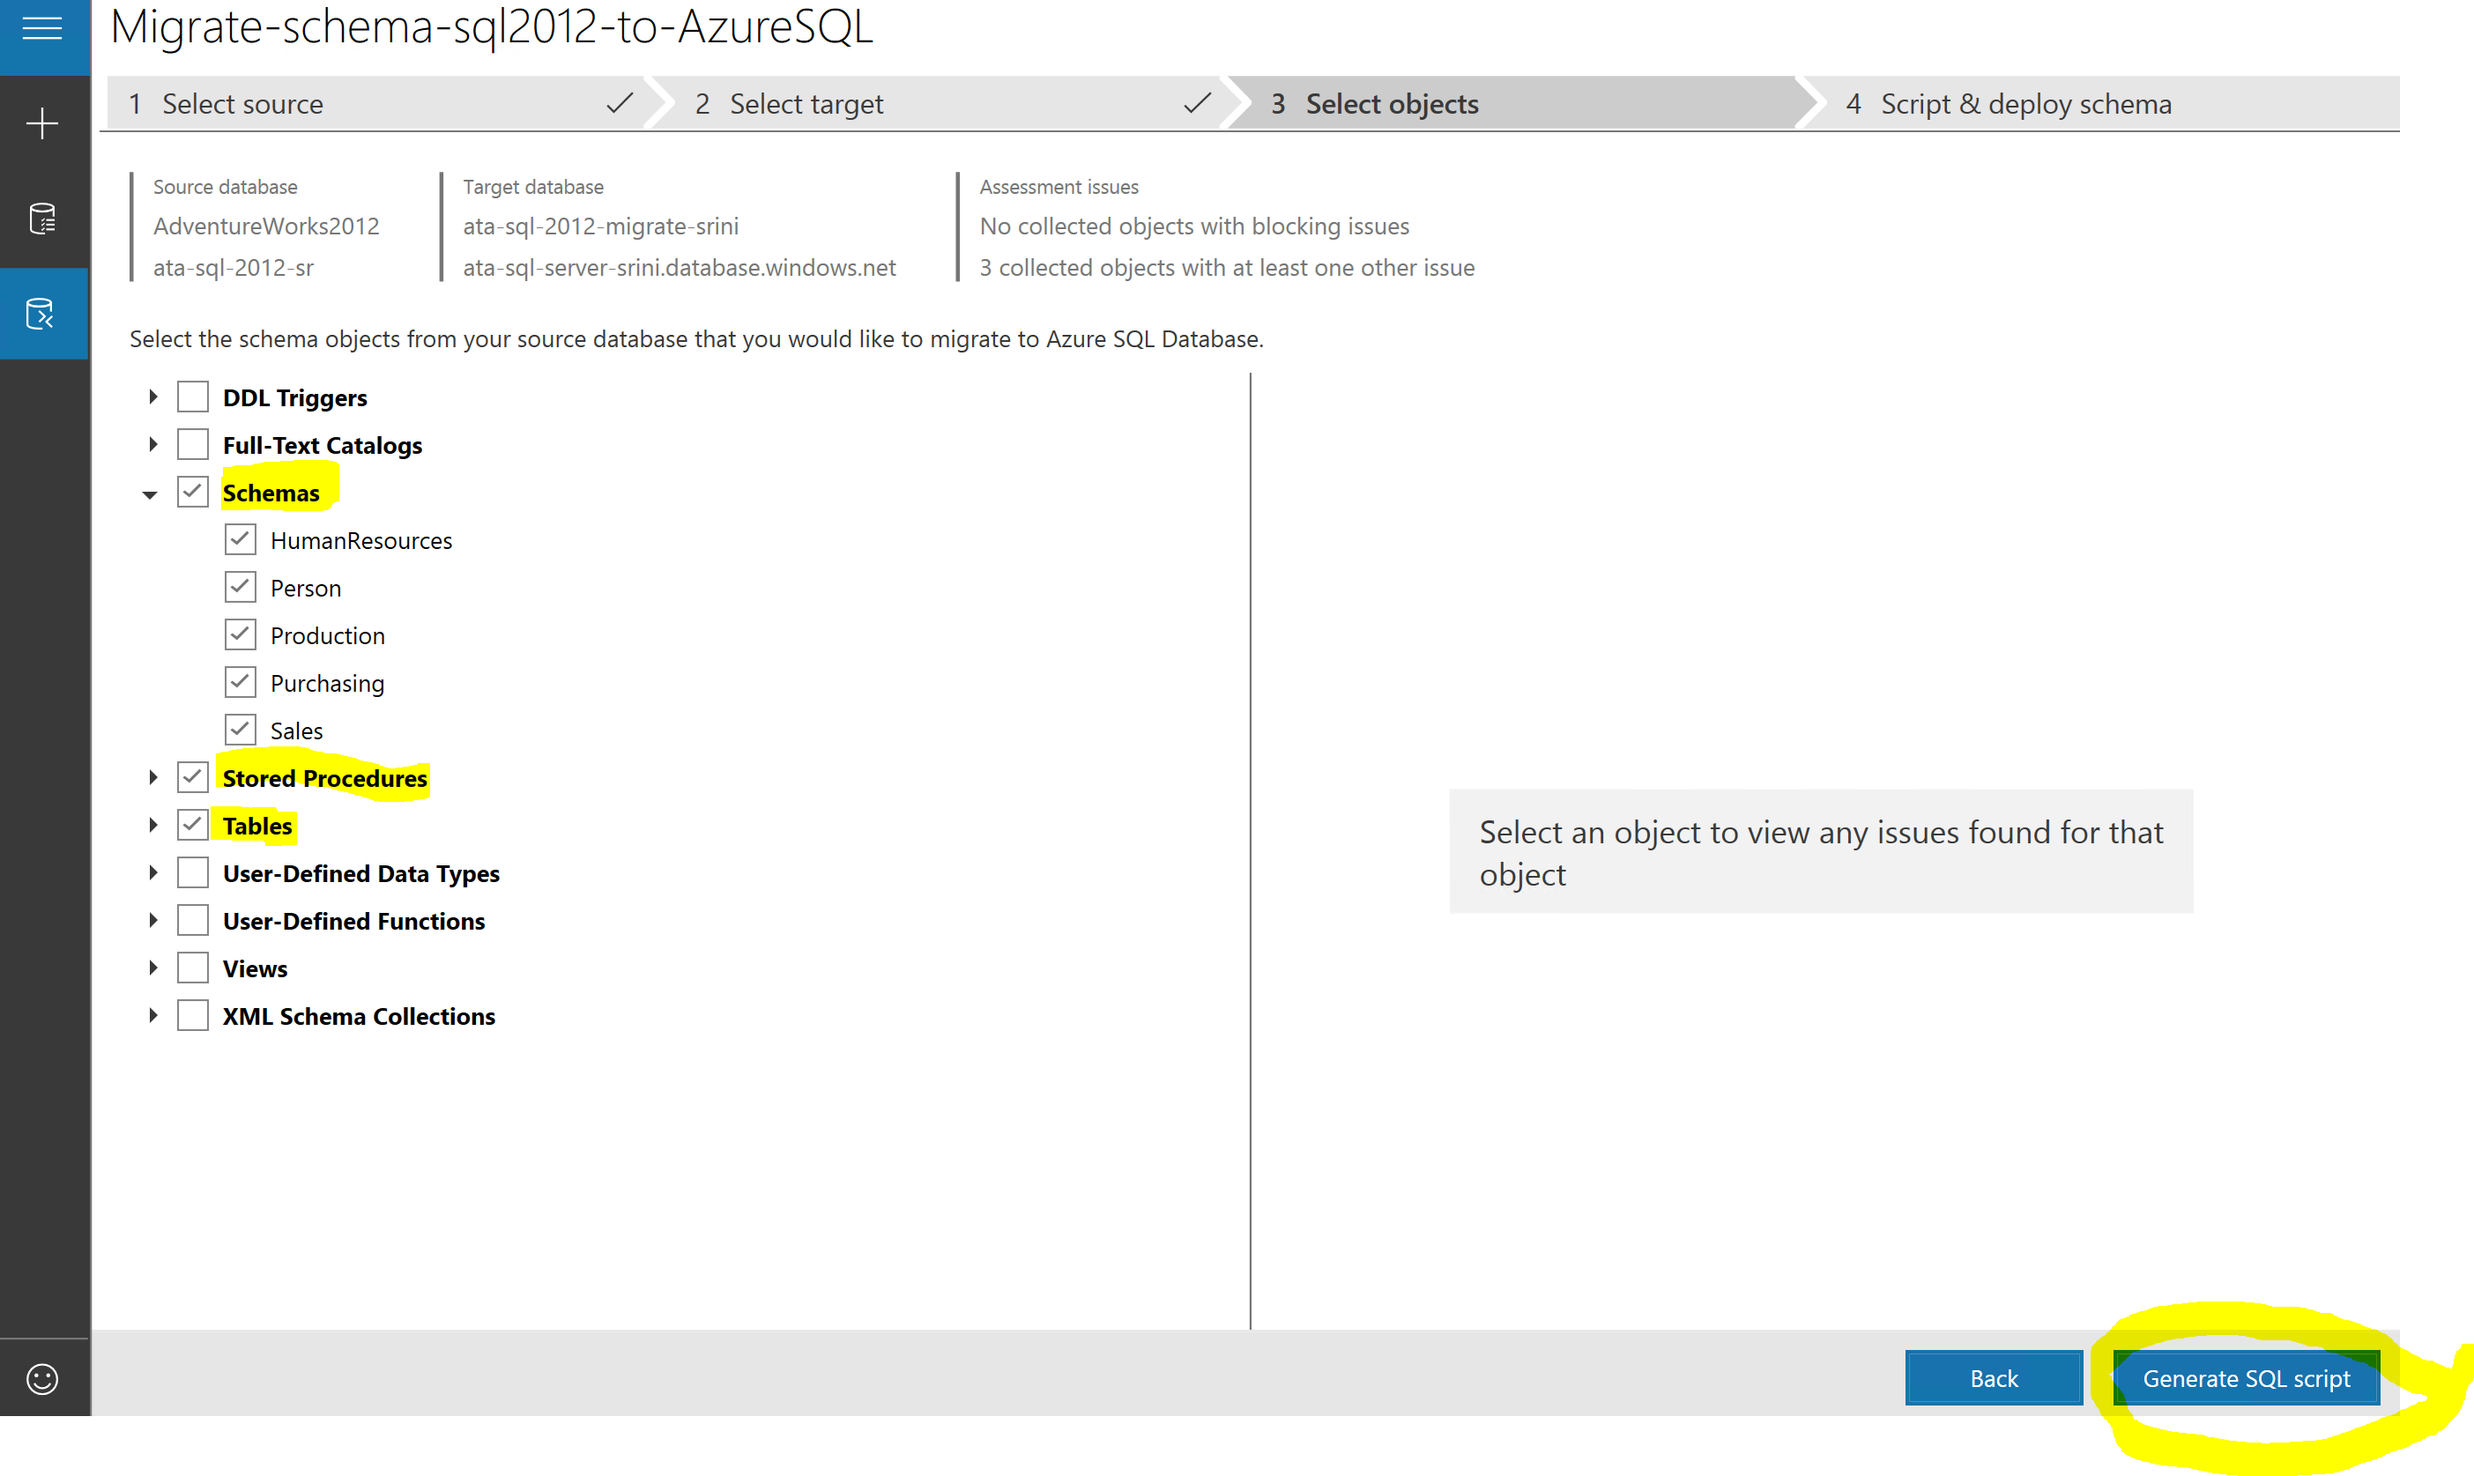
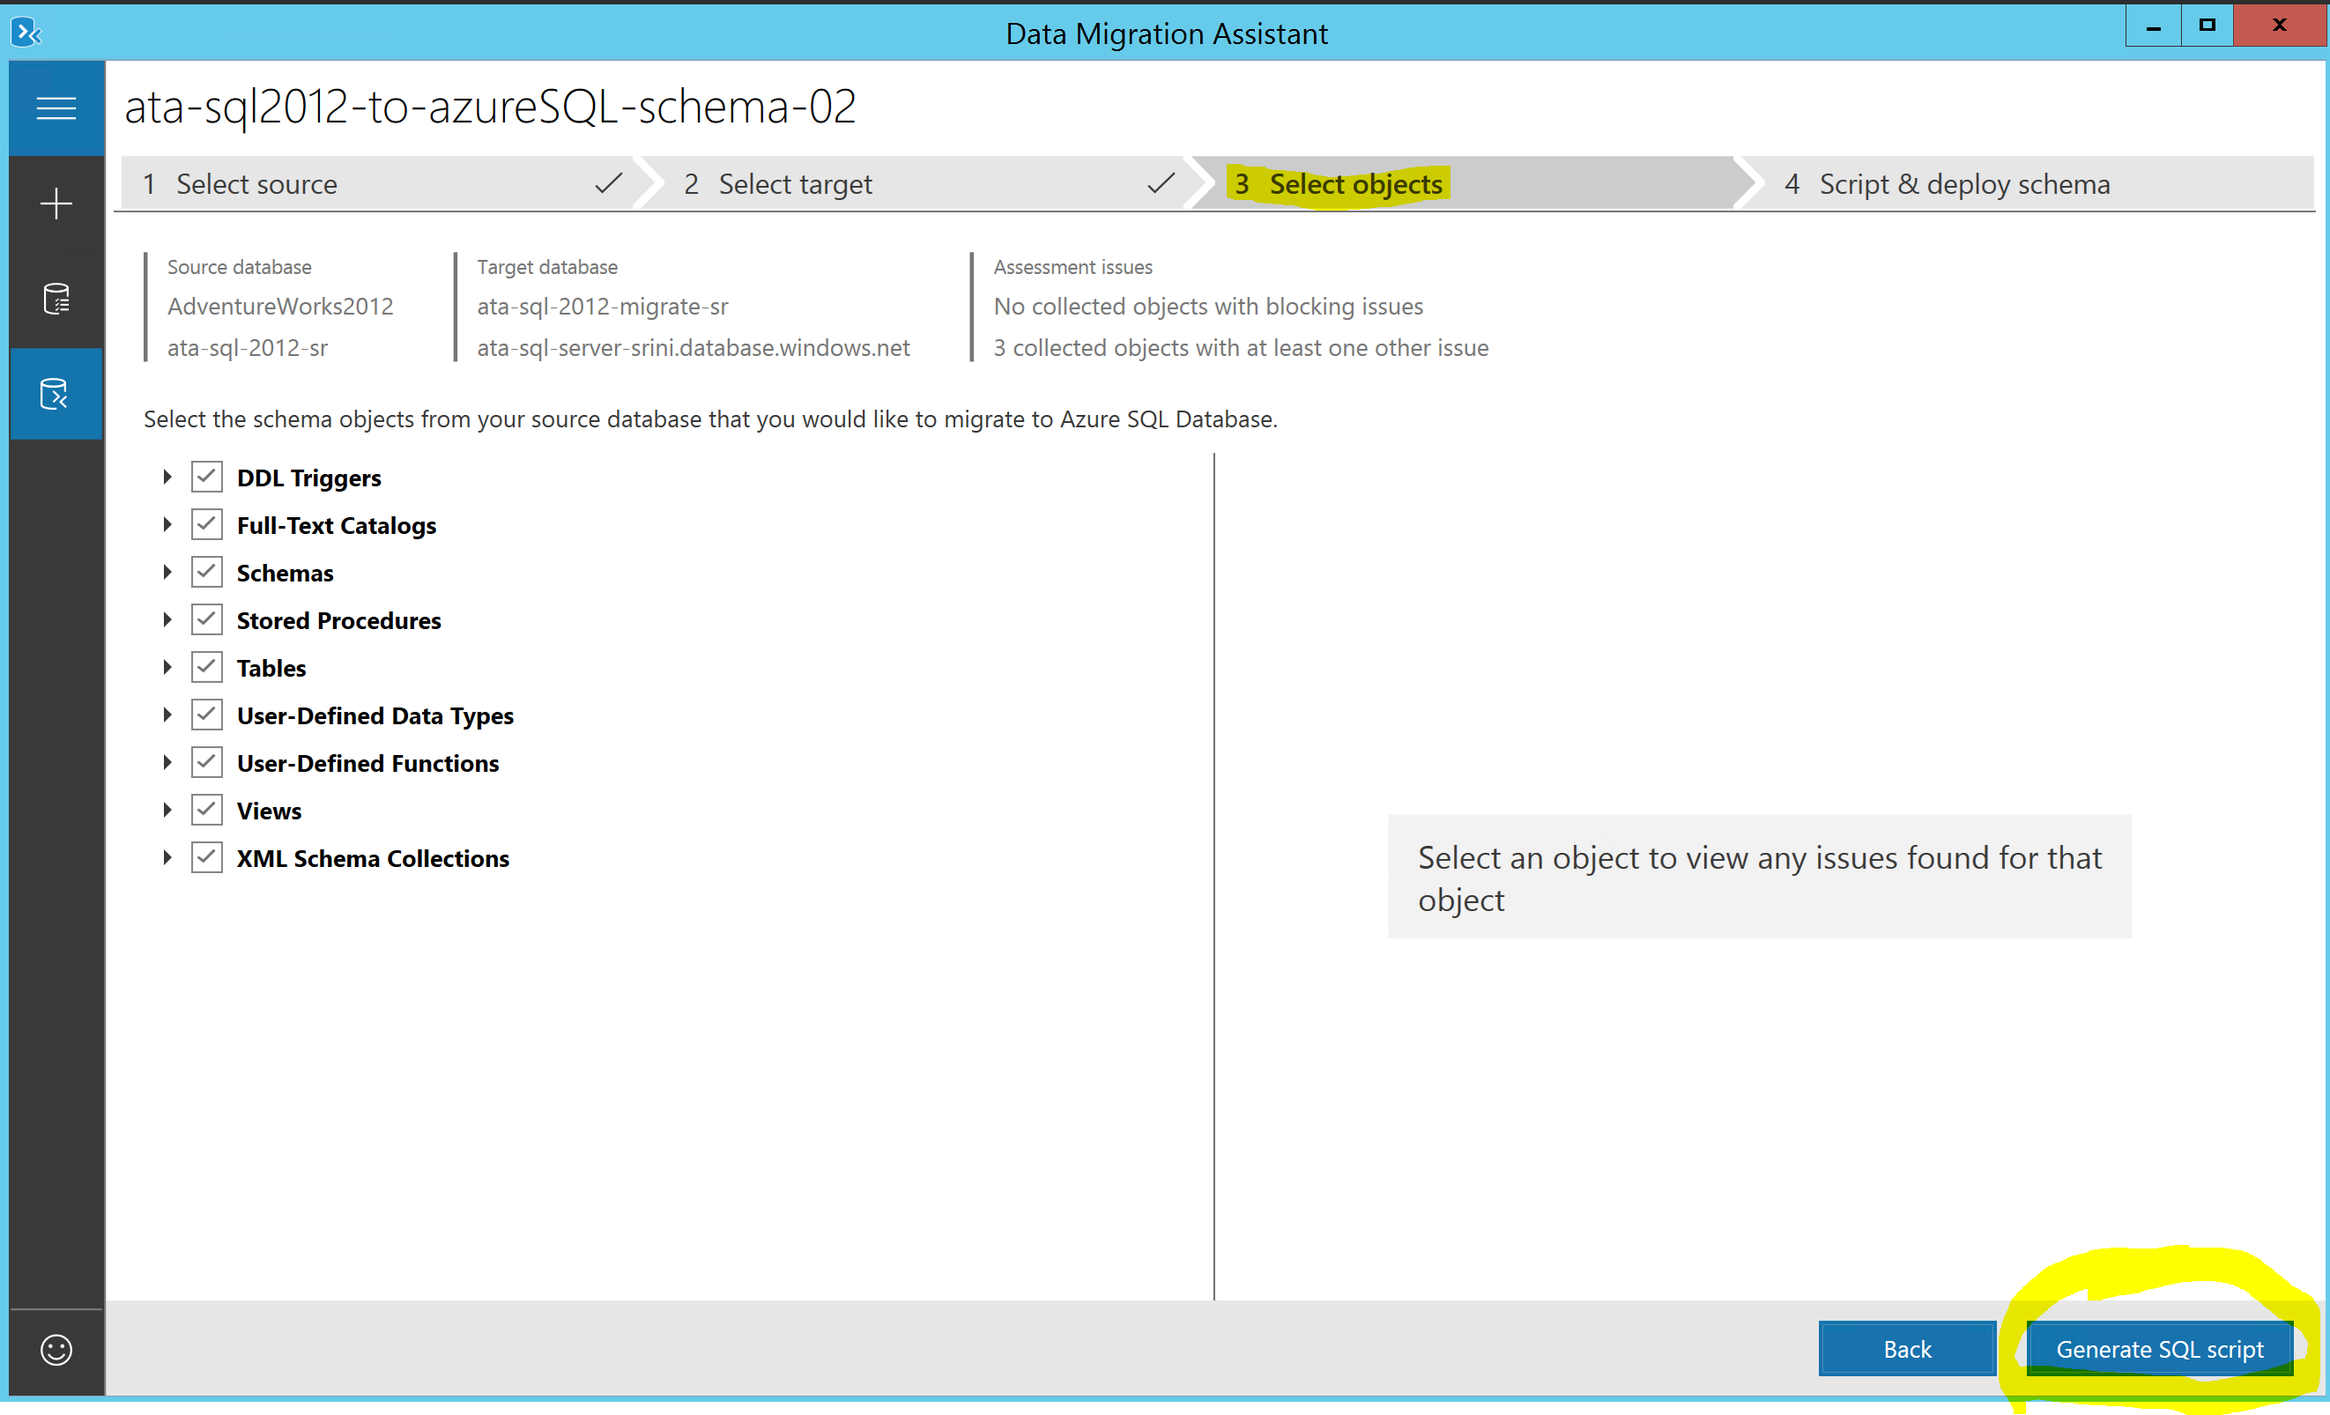
dito

Changed region(s): [[0.0, 0.0, 1.0, 1.0], [0.5893, 0.5604, 0.8994, 0.6538]]

diff --git a/month1/labs/lab_SQL/README.md b/month1/labs/lab_SQL/README.md
@@ -58,8 +58,8 @@ This hands-on lab will provide an experience to restore an on-premises database 
 
 <img src="./images/SQL-VM-Configuration-full.PNG" alt="SQL VM configuration setup" Width="600">
 
-- Make sure you have green check for the **validation passed** and Click on **Create** button.
-- Wait till your deployment is complete and see 'Go To Resource' button.
+- Make sure you have a green check for the **validation passed** and Click on **Create** button.
+- Wait till your deployment is complete and you should see 'Go To Resource' button.
 
 ### Task-2: Restore a sample database AdventureWorks from a backup
 
@@ -75,46 +75,49 @@ This hands-on lab will provide an experience to restore an on-premises database 
 - Select 'Use a different account'
 - Enter user name as 'azureuser'
 - Enter the password ('Atasql2012user')
-2. Modify Internet Security to download the software
-- Open 'Server Manager' if not open
-- Select 'Local Server' 
-- Find 'IE Enhanced Security Configuration' and Turn 'Off' 
-- It is not recommended but to avoid internet issues. Please turn On after the download.
+
+<img src="./images/SQL-VM-RDP-Connect-ok.PNG" alt="Login with different account" Height="300">
+
+2. Modify Internet Security to download software.
+- Open 'Server Manager' if not open.
+- Select 'Local Server'.
+- Find 'IE Enhanced Security Configuration' and Turn 'Off'.
+- It is not recommended but to avoid internet issues in the lab. Please turn 'On' after the download.
 
 <img src="./images/SQL-VM-turn-off-IE.PNG" alt="Turn off IE browser Security" Width="800">
 
 3. Download the AdventureWorks, a sample database for SQL 2012.
-- Open Internet Explorer browser and access [SQL 2012 Backup](https://github.com/Microsoft/sql-server-samples/releases/tag/adventureworks)
-- Select 'AdventureWorks2012.bak' under "AdventureWorks (OLTP) full database backups" section 
+- Open Internet Explorer browser and access the [SQL 2012 Backup](https://github.com/Microsoft/sql-server-samples/releases/tag/adventureworks) location.
+- Select 'AdventureWorks2012.bak' under "AdventureWorks (OLTP) full database backups" section.
 
 <img src="./images/SQL-2012-Backup-download.PNG" alt="SQL 2012 Database backup" Width="600">
 
-- Save the backup file to local 'c:\Data' folder (Create a new folder)
+- Save the backup file to local 'c:\Data' folder (Create a new folder).
 
 4. Open SQL Server Management Studio and restore the database.
-- Search for 'SQL Server Management Studio' on the desktop
-- Connect to SQL Server with 'sqladmin' login
-- Select 'database' folder and right click to select 'Restore database' option
+- Search for 'SQL Server Management Studio' on the desktop.
+- Connect to SQL Server with 'sqladmin' login.
+- Select 'database' folder and right click to select 'Restore database' option.
 
 <img src="./images/SQL-VM-SQL-Select-Restore.PNG" alt="select Restore database option" Width="300">
 
 - Select 'Device', '...', 'File', 'C:\data Folder' and 'AdventureWorks2012.bak' file.
 
-<img src="./images/SQL-DB-Restore-Backup.PNG" alt="select backup file" Width=700">
+<img src="./images/SQL-DB-Restore-Backup.PNG" alt="select backup file" Width="700">
 
-- Click 'OK' three times to start the backup process
+- Click 'OK' three times to start the backup process.
 
 <img src="./images/SQL-DB-Restore-backup-Done.PNG" alt="backup restore done" Width="600">
 
-- Expand 'Database'|'AdventureWorks2012'|'Tables'|'HumanResources.employee' table |'Select Top 1000 Rows'
+- Expand 'Database'|'AdventureWorks2012'|'Tables'|'HumanResources.employee' table |'Select Top 1000 Rows'.
 
 <img src="./images/SQL-DB-Select-table-rows.PNG" alt="Select 1000 rows from Employee table" Width="600">
 
-- Execute the query
+- Execute the query.
 - You have restored the database successfully!
 
 ## Lab-2: Migrate SQL 2012 Database to Azure SQL PaaS Database
-This hands-on lab will provide an experience migrate 2012 SQL database to Azure PaaS SQL database using Data Migration Assistant. You can use the same lab to migrate other versions of the Microsoft SQL database also.
+This hands-on lab will provide an experience to migrate 2012 SQL database to Azure PaaS SQL database using Data Migration Assistant. You can use the same lab to migrate other versions of the Microsoft SQL database also.
 
 You should have a copy of the database backup to complete this exercise. Please follow lab-1 if you don't have one.
 ### Tasks:
@@ -127,8 +130,8 @@ You should have a copy of the database backup to complete this exercise. Please 
 
 1. Open Portal to create SQL PaaS Database.
 
-- Select Database service from the search bar
-- Select 'Add' to create a new database
+- Type 'SQL Databases' on the search bar to select the service.
+- Select 'Add' to create a new database.
 - Select Resource Group
 - Enter Database name: 'ata-sql-2012-migrate-<name>'
 - Server: Click on 'Create new'
@@ -151,10 +154,10 @@ You should have a copy of the database backup to complete this exercise. Please 
 
 ### Task-4: Install Data Migration Assistant
 
-- Now let us evaluate the SQL 2012 database to migrate to Azure SQL.
-- Data Migration Assistant is available to assess the migration 
-- This tool will provide a report about any feature parity and compatibility issues between the on-premises database and the Azure SQL DB service.
-1. Access SQL 2012 VM and Download [Microsoft Data Migration Assistant](https://www.microsoft.com/en-us/download/details.aspx?id=53595)
+- We need to evaluate if we can migrate SQL 2012 database to Azure SQL.
+- Data Migration Assistant is available to assess the migration.This tool will provide a report about any feature parity and compatibility issues between the on-premises database and the Azure SQL DB service.
+
+1. Open up your SQL 2012 VM and Open a browser to download 'Microsoft Data Migration Assistant' using [this link](https://www.microsoft.com/en-us/download/details.aspx?id=53595).
 - Run the install with the default options.
 
 <img src="./images/SQL-VM-DMA-Install.PNG" alt="Download DMA install" Width="700">
@@ -185,10 +188,10 @@ You should have a copy of the database backup to complete this exercise. Please 
 - **Encrypt connection**: Uncheck this box.
 - **Trust server certificate**: Uncheck this box.
 
-<img src="./images/DMA-SQL-source-Info.PNG", alt="Source database access info" Width="300">
+<img src="./images/DMA-SQL-source-Info.PNG" alt="Source database access info" Width="300">
 
 - Select Connect
-6. On the Add sources dialog that appears next, check the box for 'AdventureWorks12' and select Add.
+6. Next you will see 'Add sources' dialog screen, check the box for 'AdventureWorks12' and select Add.
 
 <img src="./images/DMA-Select-Data-Source.PNG" alt="Select Source Database" Height="500">
 
@@ -204,17 +207,17 @@ You should have a copy of the database backup to complete this exercise. Please 
 
 <img src="./images/DMA-SQL-Migrate-Compatibility.PNG" alt="SQL Migrate Compatibility issues" Width="800">
 
-10. Store the assessment to share with Development and Azure Teams.
+10. Store the assessment to share with your internal teams and Azure Teams.
 
 ### Task-5: Migrate SQL 2012 Schema to Azure SQL PaaS Database
 
 1. Select new to create a migration project
 2. Enter the following:
-- **Project type**: Select **Migration**
-- **Project name**: Enter 'Migrate-schema-sql2012-AzureSQL'
-- **Source server type**:Select **SQL Server**
-- **Target server type**:Select **Azure SQL Database**
-- **Migration scope**:Select **Schema only**
+- Project type: Select **Migration**
+- Project name: Enter 'Migrate-schema-sql2012-AzureSQL'
+- Source server type: Select **SQL Server**
+- Target server type: Select **Azure SQL Database**
+- Migration scope: Select **Schema only**
 - Click on **Create**
 
 <img src="./images/DMA-Migreate-schema-select.PNG" alt="Migrate Schema project" Height="300">
@@ -234,16 +237,16 @@ You should have a copy of the database backup to complete this exercise. Please 
 4. Provide the target datbase info
 - Get the Azure SQL DB Server name from the Azure Portal 
 
-<img src="./images/AzureSQLDB-Server-name.PNG" alt="Azure SQL DB Server name" Width="800">
+<img src="./images/AzureSQLDB-Server-name.PNG" alt="Azure SQL DB Server name" Width="950">
 
-- Allow client access to the Azure SQL Database
-- Select Azure SQL DB server
-- Select **Show firewall settings**
-- Create a firewall rule to allow the 2012 SQL server client IP
+- Allow SQL 2012 VM access to Azure SQL Database
 - Get the SQL 2012 VM IP address from the portal
 
 <img src="./images/Azure-SQL2012-VM-PublicIP.PNG" alt="SQL 2012 VM Public IP address" Width="900">
 
+- Select Azure SQL DB server
+- Select **Show firewall settings**
+- Create a firewall rule to allow the 2012 SQL server client IP
 - Enter the SQL 2012 VM IP address as the Start and End IP Range. You are giving access to only one server.
 
 <img src="./images/Azure-SQL-DB-Server-Firewall-ClientAccess.PNG" alt="Firewall rule to provide to access SQL 2012 DB client" Width="800">
@@ -261,10 +264,7 @@ You should have a copy of the database backup to complete this exercise. Please 
 <img src="./images/Azure-Migrate-Target-db-Info.PNG" alt="DMA Migrate Target DB" Width="800">
 
 5. Select Objects for migration
-- Check the following boxes for migration
-- **Schemas**
-- **Stored Procedures**
-- **Tables**
+- Check the all the boxes for migration
 - Click on **Generate SQL Script**
 
 <img src="./images/Azure-Migrate-Schema-Select-Objects.PNG" alt="Azure Migrate select objects" Width="800">
